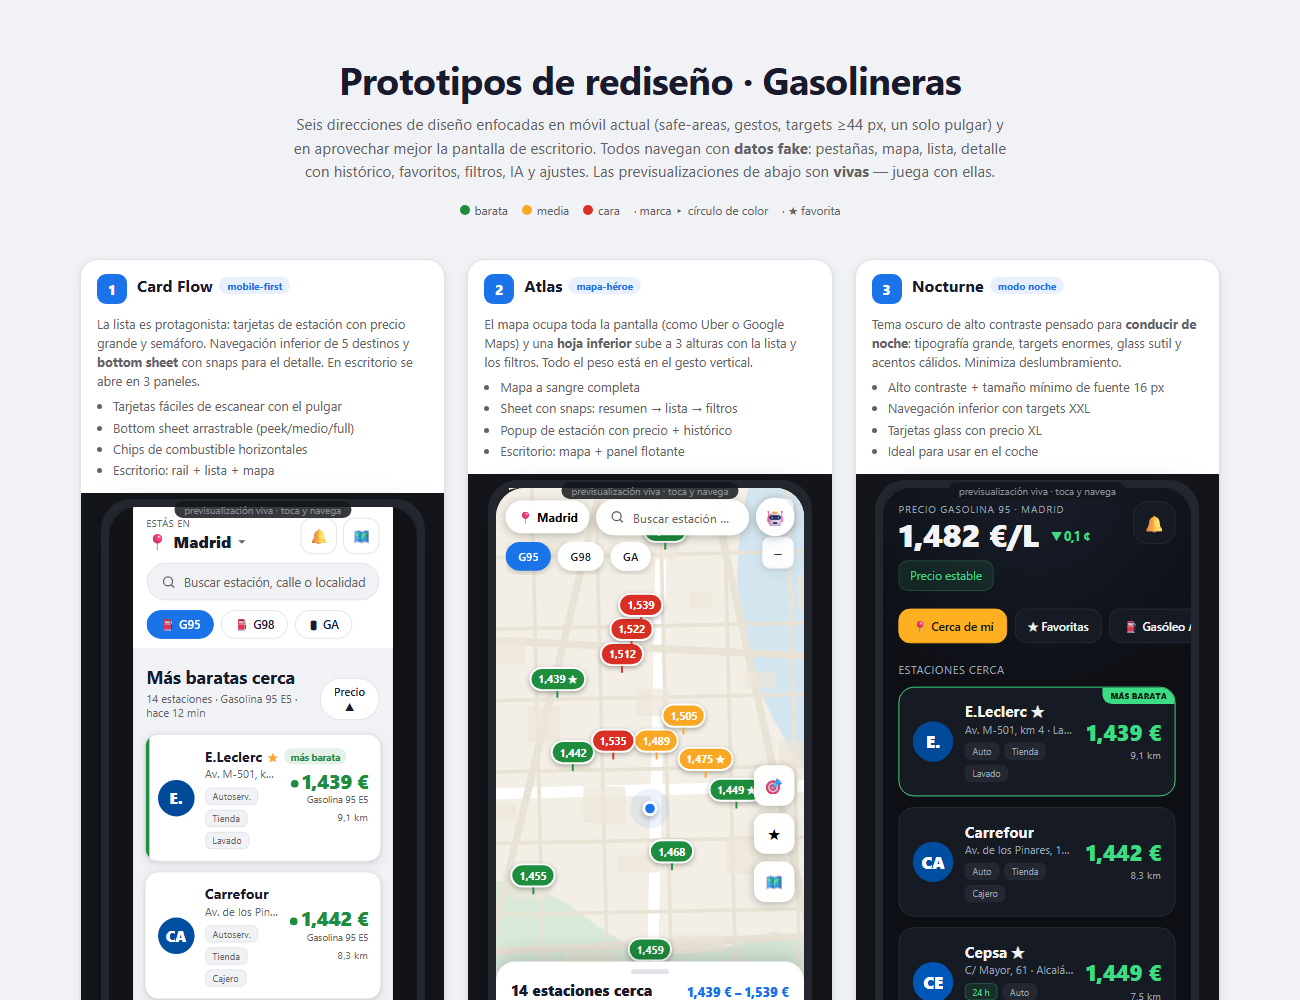
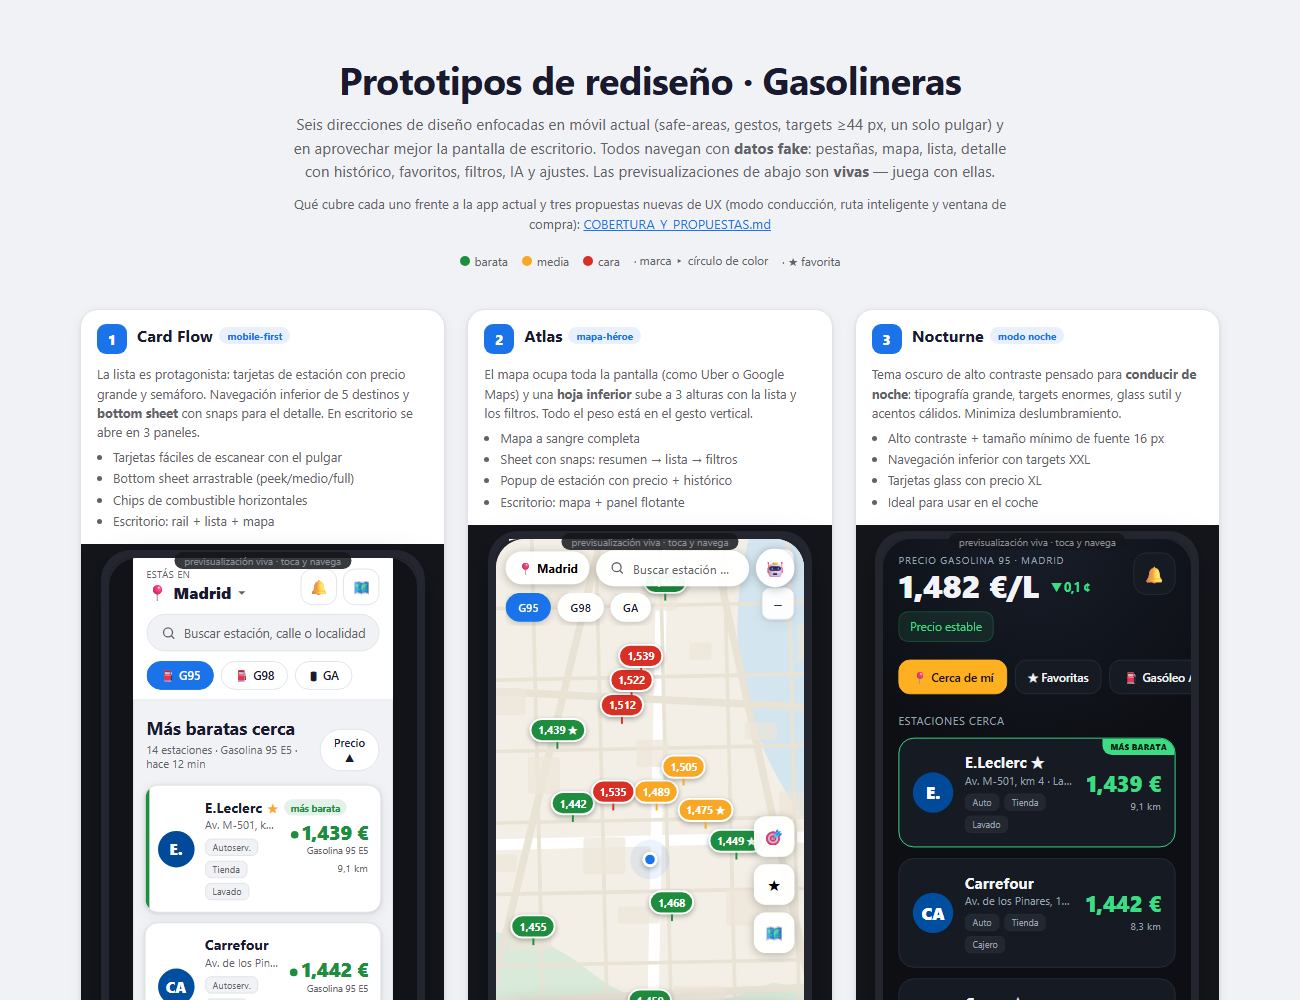
enlaza el informe de cobertura desde la galeria de prototipos

diff --git a/prototipos_opencode_mimov2.6flashfree/index.html b/prototipos_opencode_mimov2.6flashfree/index.html
@@ -10,6 +10,8 @@
   .gal-hero { text-align: center; padding: 26px 10px 8px; }
   .gal-hero h1 { font-size: clamp(1.6rem, 4vw, 2.4rem); margin: 0 0 8px; letter-spacing: -.02em; }
   .gal-hero p { color: var(--texto-2); max-width: 720px; margin: 0 auto; line-height: 1.55; font-size: .95rem; }
+  .gal-docs { margin-top: 10px !important; font-size: .82rem !important; }
+  .gal-docs a { color: var(--acento); }
   .gal-legend { display: flex; gap: 14px; justify-content: center; flex-wrap: wrap; margin: 18px 0 6px; font-size: .74rem; color: var(--texto-2); }
   .gal-legend span { display: inline-flex; align-items: center; gap: 5px; }
   .dotl { width: 10px; height: 10px; border-radius: 50%; display: inline-block; }
@@ -54,6 +56,7 @@
   <div class="gal-hero">
     <h1>Prototipos de rediseño · Gasolineras</h1>
     <p>Seis direcciones de diseño enfocadas en móvil actual (safe-areas, gestos, targets ≥44 px, un solo pulgar) y en aprovechar mejor la pantalla de escritorio. Todos navegan con <strong>datos fake</strong>: pestañas, mapa, lista, detalle con histórico, favoritos, filtros, IA y ajustes. Las previsualizaciones de abajo son <strong>vivas</strong> — juega con ellas.</p>
+    <p class="gal-docs">Qué cubre cada uno frente a la app actual y tres propuestas nuevas de UX (modo conducción, ruta inteligente y ventana de compra): <a href="COBERTURA_Y_PROPUESTAS.md">COBERTURA_Y_PROPUESTAS.md</a></p>
     <div class="gal-legend">
       <span><i class="dotl" style="background:#1e8e3e"></i> barata</span>
       <span><i class="dotl" style="background:#f9a825"></i> media</span>
